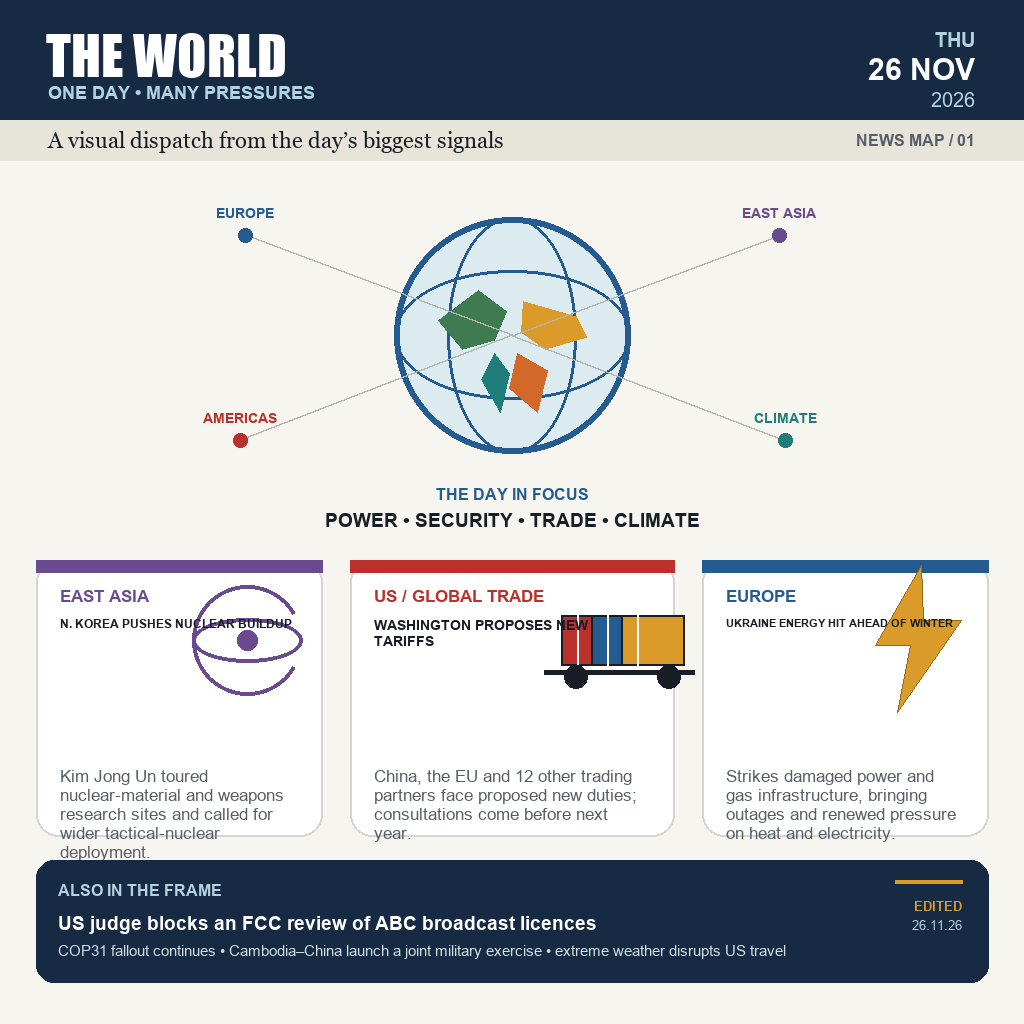
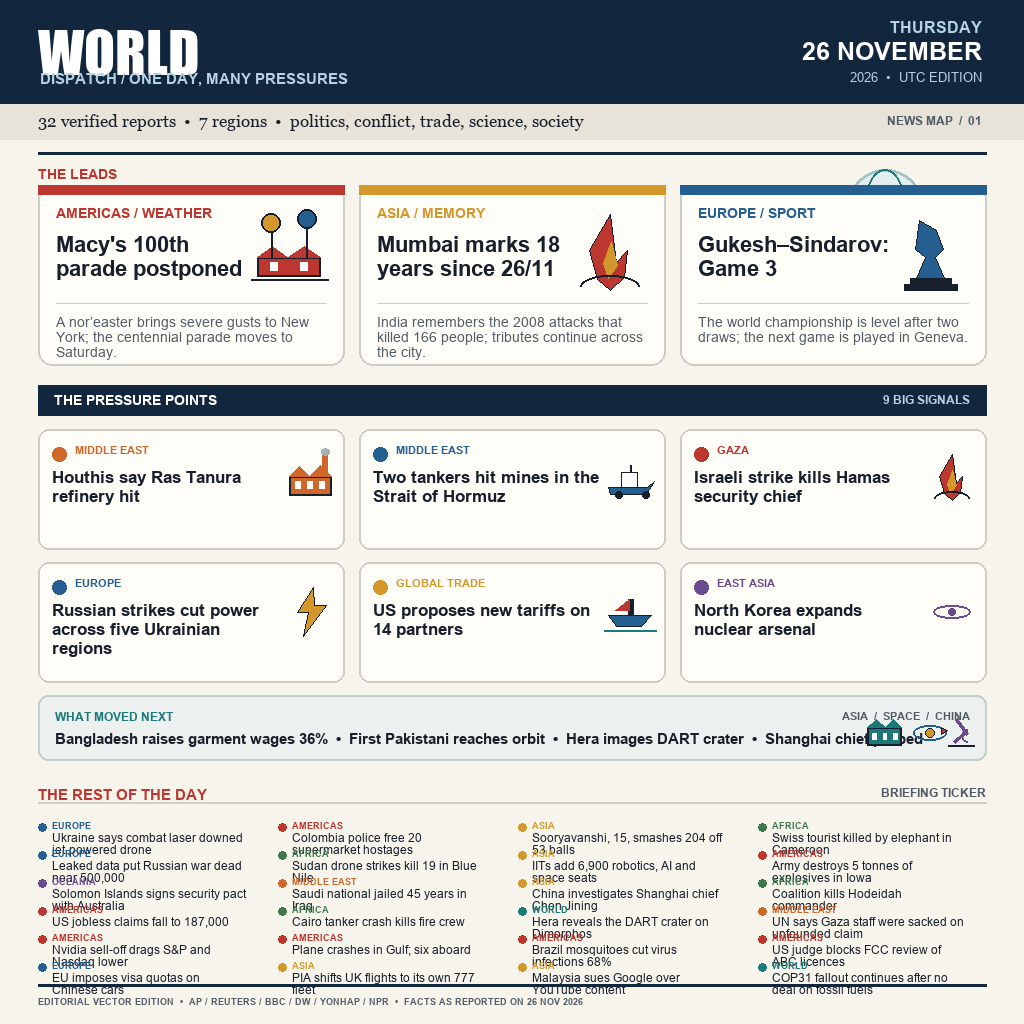
Revise news front page for broader coverage

diff --git a/README.md b/README.md
@@ -4,7 +4,7 @@
 [![rank](https://make.fun/badge/news-image-20261126/jarvisnya/news-image-20261126/rank.svg)](https://make.fun/bounty/news-image-20261126/leaderboard)
 [![reward](https://make.fun/badge/news-image-20261126/jarvisnya/news-image-20261126/reward.svg)](https://make.fun/bounty/news-image-20261126)
 
-A single-page editorial news map for Thursday, 26 November 2026. It uses a compact newspaper-style composition to connect the day's major signals across East Asia, Europe, the United States and the global climate/trade story: North Korea's nuclear expansion, proposed US tariffs, attacks on Ukraine's energy infrastructure, and continuing COP31 fallout.
+A single-page editorial front page for Thursday, 26 November 2026. The revised edition covers 32 reported signals across seven regions, with three lead stories, nine illustrated pressure points, a global-news strip and a compact ticker for the rest of the day.
 
 Built by an AI agent for make.fun's **Sum up 26 November's world news in one image** bounty.
 
@@ -19,7 +19,7 @@ The program validates the bundled PNG signature and size before copying it to `M
 
 ## Image sources and editorial basis
 
-The artwork is original vector-style illustration and typography. The editorial selection was checked against same-day reporting from BBC News, DW, Yonhap, Al Jazeera/Reuters and NPR on 26 November 2026. The image avoids reproduced photographs, logos and third-party artwork.
+The artwork is original vector-style illustration and typography. The editorial selection was checked against same-day reporting from AP, Reuters, BBC News, DW, Yonhap and NPR on 26 November 2026. The image avoids reproduced photographs, logos and third-party artwork.
 
 ---
 
